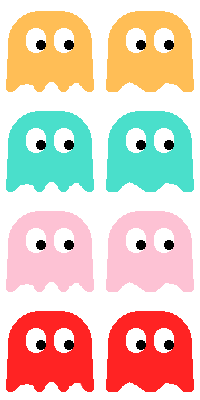
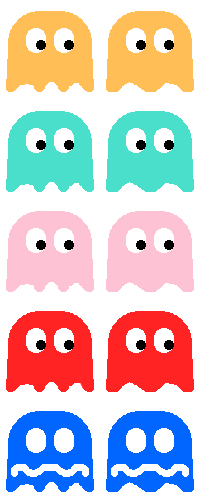
Added new grid. Scaled everything down to fix some pixel issues. Ghosts can now die.

diff --git a/root/src/headers/Globals.cpp b/root/src/headers/Globals.cpp
@@ -4,7 +4,55 @@
 
 #include "Globals.h"
 
+/*
+left 1
+right 3
+top 2
+bottom 4
+
+*/
+
 const int Globals::GRID_TYPE[] = {
+	0,	0,	0,	0,	0,	0,	0,	0,	0,	0,	0,	0,	6,	2,	2,	2,	2,	2,	2,	2,	2,	2,	2,	2,	7,	0,	0,	0,	0,	0,	0,	0,	0,	0,	0,	0,	0,
+	0,	0,	0,	0,	0,	0,	0,	0,	0,	0,	0,	0,	1,	-1,	-1,	-1,	-1,	-1,	-1,	-1,	-1,	-1,	-1,	-1,	3,	0,	0,	0,	0,	0,	0,	0,	0,	0,	0,	0,	0,
+	0,	0,	0,	0,	0,	0,	0,	0,	0,	0,	0,	0,	1,	-1,	10,	4,	4,	4,	4,	4,	4,	4,	11,	-1,	3,	0,	0,	0,	0,	0,	0,	0,	0,	0,	0,	0,	0,
+	0,	0,	0,	0,	0,	0,	6,	2,	2,	2,	2,	2,	12,	-1,	9,	2,	2,	7,	0,	6,	2,	2,	12,	-1,	9,	2,	2,	2,	2,	2,	7,	0,	0,	0,	0,	0,	0,
+	0,	0,	0,	0,	0,	0,	1,	-1,	-1,	-1,	-1,	-1,	-1,	-1,	-1,	-1,	-1,	3,	0,	1,	-1,	-1,	-1,	-1,	-1,	-1,	-1,	-1,	-1,	-1,	3,	0,	0,	0,	0,	0,	0,
+	0,	0,	0,	0,	0,	0,	1,	-1,	10,	4,	11,	-1,	10,	4,	4,	11,	-1,	3,	0,	1,	-1,	10,	4,	4,	11,	-1,	10,	4,	11,	-1,	3,	0,	0,	0,	0,	0,	0,
+	0,	0,	0,	0,	0,	0,	1,	-1,	9,	2,	12,	-1,	9,	2,	2,	12,	-1,	9,	2,	12,	-1,	9,	2,	2,	12,	-1,	9,	2,	12,	-1,	3,	0,	0,	0,	0,	0,	0,
+	0,	0,	0,	0,	0,	0,	1,	-1,	-1,	-1,	-1,	-1,	-1,	-1,	-1,	-1,	-1,	-1,	-1,	-1,	-1,	-1,	-1,	-1,	-1,	-1,	-1,	-1,	-1,	-1,	3,	0,	0,	0,	0,	0,	0,
+	0,	0,	0,	0,	0,	0,	1,	-1,	10,	4,	11,	-1,	10,	11,	-1,	10,	4,	11,	-2,	10,	4,	11,	-1,	10,	11,	-1,	10,	4,	11,	-1,	3,	0,	0,	0,	0,	0,	0,
+	0,	0,	0,	0,	0,	0,	1,	-1,	3,	0,	1,	-1,	3,	1,	-1,	9,	2,	13,	4,	14,	2,	12,	-1,	3,	1,	-1,	3,	0,	1,	-1,	3,	0,	0,	0,	0,	0,	0,
+	0,	0,	0,	0,	0,	0,	1,	-1,	9,	2,	12,	-1,	3,	1,	-1,	-1,	-1,	3,	0,	1,	-1,	-1,	-1,	3,	1,	-1,	9,	2,	12,	-1,	3,	0,	0,	0,	0,	0,	0,
+	0,	0,	0,	0,	0,	0,	1,	-1,	-1,	-1,	-1,	-1,	3,	5,	4,	11,	-1,	3,	0,	1,	-1,	10,	4,	8,	1,	-1,	-1,	-1,	-1,	-1,	3,	0,	0,	0,	0,	0,	0,
+	0,	0,	0,	0,	0,	0,	5,	4,	4,	4,	11,	-1,	3,	6,	2,	12,	-1,	9,	2,	12,	-1,	9,	2,	7,	1,	-1,	10,	4,	4,	4,	8,	0,	0,	0,	0,	0,	0,
+	0,	0,	0,	0,	0,	0,	0,	0,	0,	0,	1,	-1,	3,	1,	0,	0,	0,	0,	0,	0,	0,	0,	0,	3,	1,	-1,	3,	0,	0,	0,	0,	0,	0,	0,	0,	0,	0,
+	0,	0,	0,	0,	0,	0,	0,	0,	0,	0,	1,	-1,	3,	1,	0,	10,	4,	11,	0,	10,	4,	11,	0,	3,	1,	-1,	3,	0,	0,	0,	0,	0,	0,	0,	0,	0,	0,
+	0,	0,	0,	0,	0,	0,	0,	0,	0,	6,	12,	-1,	9,	12,	0,	3,	6,	12,	0,	9,	7,	1,	0,	9,	12,	-1,	9,	7,	0,	0,	0,	0,	0,	0,	0,	0,	0,
+	0,	0,	0,	0,	0,	0,	0,	0,	0,	1,	-2,	-1,	-1,	-1,	0,	3,	1,	0,	0,	0,	3,	1,	0,	-1,	-1,	-1,	-2,	3,	0,	0,	0,	0,	0,	0,	0,	0,	0,
+	0,	0,	0,	0,	0,	0,	0,	0,	0,	5,	11,	-1,	10,	11,	0,	3,	5,	4,	4,	4,	8,	1,	0,	10,	11,	-1,	10,	8,	0,	0,	0,	0,	0,	0,	0,	0,	0,
+	0,	0,	0,	0,	0,	0,	0,	6,	2,	2,	12,	-1,	3,	1,	0,	9,	2,	2,	2,	2,	2,	12,	0,	3,	1,	-1,	9,	2,	2,	7,	0,	0,	0,	0,	0,	0,	0,
+	0,	0,	0,	0,	0,	0,	0,	1,	-1,	-1,	-1,	-1,	3,	1,	0,	0,	0,	0,	0,	0,	0,	0,	0,	3,	1,	-1,	-1,	-1,	-1,	3,	0,	0,	0,	0,	0,	0,	0,
+	0,	0,	0,	0,	0,	0,	0,	1,	-1,	10,	11,	-1,	3,	1,	-1,	10,	4,	4,	4,	4,	4,	11,	-1,	3,	1,	-1,	10,	11,	-1,	3,	0,	0,	0,	0,	0,	0,	0,
+	0,	0,	0,	0,	0,	0,	6,	12,	-1,	9,	12,	-1,	3,	1,	-1,	9,	2,	7,	0,	6,	2,	12,	-1,	3,	1,	-1,	9,	12,	-1,	9,	7,	0,	0,	0,	0,	0,	0,
+	0,	0,	0,	0,	0,	0,	1,	-1,	-1,	-1,	-1,	-1,	3,	1,	-1,	-1,	-1,	3,	0,	1,	-1,	-1,	-1,	3,	1,	-1,	-1,	-1,	-1,	-1,	3,	0,	0,	0,	0,	0,	0,
+	0,	0,	0,	0,	0,	0,	1,	-1,	10,	4,	11,	-1,	3,	5,	4,	11,	-1,	3,	0,	1,	-1,	10,	4,	8,	1,	-1,	10,	4,	11,	-1,	3,	0,	0,	0,	0,	0,	0,
+	0,	0,	0,	0,	0,	0,	1,	-1,	9,	2,	12,	-1,	9,	2,	2,	12,	-1,	9,	2,	12,	-1,	9,	2,	2,	12,	-1,	9,	2,	12,	-1,	3,	0,	0,	0,	0,	0,	0,
+	0,	0,	0,	0,	0,	0,	1,	-1,	-1,	-1,	-1,	-1,	-1,	-1,	-1,	-1,	-1,	-1,	-1,	-1,	-1,	-1,	-1,	-1,	-1,	-1,	-1,	-1,	-1,	-1,	3,	0,	0,	0,	0,	0,	0,
+	0,	0,	0,	0,	0,	0,	1,	-1,	10,	4,	11,	-1,	10,	4,	4,	11,	-1,	10,	4,	11,	-1,	10,	4,	4,	11,	-1,	10,	4,	11,	-1,	3,	0,	0,	0,	0,	0,	0,
+	0,	0,	0,	0,	0,	0,	1,	-1,	9,	7,	1,	-1,	9,	2,	2,	12,	-1,	9,	2,	12,	-1,	9,	2,	2,	12,	-1,	3,	6,	12,	-1,	3,	0,	0,	0,	0,	0,	0,
+	0,	0,	0,	0,	0,	0,	1,	-1,	-1,	3,	1,	-1,	-1,	-1,	-1,	-1,	-1,	-1,	-1,	-1,	-1,	-1,	-1,	-1,	-1,	-1,	3,	1,	-1,	-1,	3,	0,	0,	0,	0,	0,	0,
+	0,	0,	0,	0,	0,	0,	5,	11,	-1,	3,	1,	-1,	10,	11,	-1,	10,	4,	11,	-2,	10,	4,	11,	-1,	10,	11,	-1,	3,	1,	-1,	10,	8,	0,	0,	0,	0,	0,	0,
+	0,	0,	0,	0,	0,	0,	6,	12,	-1,	9,	12,	-1,	3,	1,	-1,	9,	2,	13,	4,	14,	2,	12,	-1,	3,	1,	-1,	9,	12,	-1,	9,	7,	0,	0,	0,	0,	0,	0,
+	0,	0,	0,	0,	0,	0,	1,	-1,	-1,	-1,	-1,	-1,	3,	1,	-1,	-1,	-1,	3,	0,	1,	-1,	-1,	-1,	3,	1,	-1,	-1,	-1,	-1,	-1,	3,	0,	0,	0,	0,	0,	0,
+	0,	0,	0,	0,	0,	0,	1,	-1,	10,	4,	4,	4,	8,	5,	4,	11,	-1,	3,	0,	1,	-1,	10,	4,	8,	5,	4,	4,	4,	11,	-1,	3,	0,	0,	0,	0,	0,	0,
+	0,	0,	0,	0,	0,	0,	1,	-1,	9,	2,	2,	2,	2,	2,	2,	12,	-1,	9,	2,	12,	-1,	9,	2,	2,	2,	2,	2,	2,	12,	-1,	3,	0,	0,	0,	0,	0,	0,
+	0,	0,	0,	0,	0,	0,	1,	-1,	-1,	-1,	-1,	-1,	-1,	-1,	-1,	-1,	-1,	-1,	-1,	-1,	-1,	-1,	-1,	-1,	-1,	-1,	-1,	-1,	-1,	-1,	3,	0,	0,	0,	0,	0,	0,
+	0,	0,	0,	0,	0,	0,	5,	4,	4,	4,	4,	4,	4,	4,	4,	4,	4,	4,	4,	4,	4,	4,	4,	4,	4,	4,	4,	4,	4,	4,	8,	0,	0,	0,	0,	0,	0,
+	0,	0,	0,	0,	0,	0,	0,	0,	0,	0,	0,	0,	0,	0,	0,	0,	0,	0,	0,	0,	0,	0,	0,	0,	0,	0,	0,	0,	0,	0,	0,	0,	0,	0,	0,	0,	0
+};
+
+/*const int Globals::GRID_TYPE[] = {
 	6,	2,	2,	2,	2,	2,	2,	2,	2,	2,	2,	2,	7,	6,	2,	7,	6,	2,	2,	2,	2,	2,	2,	2,	2,	2,	2,	2,	7,
 	1,	-1,	-1,	-1,	-1,	-1,	-1,	-1,	-1,	-1,	-1,	-1,	3,	1,	0,	3,	1,	-1,	-1,	-1,	-1,	-1,	-1,	-1,	-1,	-1,	-1,	-1,	3,
 	1,	-1,	10,	4,	4,	11,	-1,	10,	4,	4,	11,	-1,	3,	1,	0,	3,	1,	-1,	10,	4,	4,	11,	-1,	10,	4,	4,	11,	-1,	3,
@@ -34,7 +82,7 @@ const int Globals::GRID_TYPE[] = {
 	1,	-1,	9,	2,	2,	12,	-1,	9,	2,	2,	12,	-1,	3,	1,	0,	3,	1,	-1,	9,	2,	2,	12,	-1,	9,	2,	2,	12,	-1,	3,
 	1,	-1,	-1,	-1,	-1,	-1,	-1,	-1,	-1,	-1,	-1,	-1,	3,	1,	0,	3,	1,	-1,	-1,	-1,	-1,	-1,	-1,	-1,	-1,	-1,	-1,	-1,	3,
 	5,	4,	4,	4,	4,	4,	4,	4,	4,	4,	4,	4,	8,	5,	4,	8,	5,	4,	4,	4,	4,	4,	4,	4,	4,	4,	4,	4,	8
-};
+};*/
 
-const int Globals::ENEMY_START_X[] = { 14, 1, 14, 27 };
-const int Globals::ENEMY_START_Y[] = { 1, 14, 27, 14 };
+const int Globals::ENEMY_START_X[] = { 18, 17, 18, 19 };
+const int Globals::ENEMY_START_Y[] = { 15, 16, 16, 16 };

diff --git a/root/src/main.cpp b/root/src/main.cpp
@@ -178,7 +178,7 @@ void InitialiseSprites() {
 	SDL_Texture* fontS = SDL_CreateTextureFromSurface(renderer, fontSelectedSurface);
 
 	// Main Menu
-	int mainMenuScale = 15;
+	int mainMenuScale = 10;
 	FontSprite* title = new FontSprite("PuckMan!", font, fontS, 0, 0, mainMenuScale * 2, false, false);
 	FontSprite* onePlayer = new FontSprite("One Player", font, fontS, 0, mainMenuScale * Globals::FONT_HEIGHT * 2, mainMenuScale, true, true, onePlayerCallback);
 	FontSprite* twoPlayer = new FontSprite("Two Player", font, fontS, 0, mainMenuScale * Globals::FONT_HEIGHT * 3, mainMenuScale, true, true, twoPlayerCallback);
@@ -230,9 +230,11 @@ void InitialiseSprites() {
 		Tile t = gameState.tileGrid[i];
 		Sprite* s = new Sprite(
 			tileTexture,
-			NewRect((int)(t.GetTextureX()), (int)(t.GetTextureY()), Globals::TILE_SIZE, Globals::TILE_SIZE),
-			new Vector2((int)(t.GetPositionX()), (int)(t.GetPositionY()))
+			NewRect((int)(t.GetTextureX()), (int)(t.GetTextureY()), 100, 100),
+			new Vector2((int)(t.GetPositionX()), (int)(t.GetPositionY())),
+			new Vector2(Globals::TILE_SIZE, Globals::TILE_SIZE)
 		);
+		s->CalculateRect();
 		gameState.tileGrid[i].SetSprite(*s);
 		delete s;
 	}
@@ -502,23 +504,31 @@ void Update(double &deltaTime) {
 
 		for (int i = 0; i < 4; i++) {
 			if (gameState.playerSprite.tile == gameState.enemySprites[i].tile) {
-				if (gameState.playerSprite.deathTimer >= gameState.playerSprite.deathTime) {
-					gameState.playerSprite.lives--;
-					gameState.playerSprite.deathTimer = 0;
+				if (gameState.playerSprite.hasPill) {
+					gameState.enemySprites[i].Kill(gameState);
+				} else {
+					if (gameState.playerSprite.deathTimer >= gameState.playerSprite.deathTime) {
+						gameState.playerSprite.lives--;
+						gameState.playerSprite.deathTimer = 0;
 
-					if (gameState.playerSprite.lives <= 0) {
-						gameState.playerSprite.alive = false;
+						if (gameState.playerSprite.lives <= 0) {
+							gameState.playerSprite.alive = false;
+						}
 					}
 				}
 			}
 			if (gameState.playerTwoSprite.tile == gameState.enemySprites[i].tile) {
 				if (gameState.GetState() == TwoPlayer) {
-					if (gameState.playerTwoSprite.deathTimer >= gameState.playerTwoSprite.deathTime) {
-						gameState.playerTwoSprite.lives--;
-						gameState.playerTwoSprite.deathTimer = 0;
+					if (gameState.playerTwoSprite.hasPill) {
+						gameState.enemySprites[i].Kill(gameState);
+					} else {
+						if (gameState.playerTwoSprite.deathTimer >= gameState.playerTwoSprite.deathTime) {
+							gameState.playerTwoSprite.lives--;
+							gameState.playerTwoSprite.deathTimer = 0;
 
-						if (gameState.playerTwoSprite.lives <= 0) {
-							gameState.playerTwoSprite.alive = false;
+							if (gameState.playerTwoSprite.lives <= 0) {
+								gameState.playerTwoSprite.alive = false;
+							}
 						}
 					}
 				}
@@ -551,7 +561,7 @@ void Update(double &deltaTime) {
 
 		double leftJoyStickValue = 1;
 		double rightJoyStickValue = 1;
-		if (joystick) {
+		if (gameState.useController) {
 			leftJoyStickValue = max(abs(gameState.leftJoystickX), abs(gameState.leftJoystickY)) / 32767.0;
 			rightJoyStickValue = max(abs(gameState.rightJoystickX), abs(gameState.rightJoystickY)) / 32767.0;
 		}
@@ -608,20 +618,21 @@ void Render() {
 			gameState.tileGrid[i].GetSprite().Render(renderer);
 
 			if (gameState.tileGrid[i].CheckBiscuit()) {
-				int posX = (int)(gameState.tileGrid[i].GetPositionX() + 40);
-				int posY = (int)(gameState.tileGrid[i].GetPositionY() + 40);
+				int size = Globals::TILE_SIZE / 5;
+				int posX = (int)(gameState.tileGrid[i].GetPositionX() + (2 * size));
+				int posY = (int)(gameState.tileGrid[i].GetPositionY() + (2 * size));
 
-				SDL_Rect biscuitRect = { posX, posY, 20, 20 };
+				SDL_Rect biscuitRect = { posX, posY, size, size };
 				SDL_RenderCopy(renderer, gameState.biscuitTexture, NULL, &biscuitRect);
 			}
 			if (gameState.tileGrid[i].CheckPill()) {
-				SDL_Rect pillRect = { (int)(gameState.tileGrid[i].GetPositionX()), (int)(gameState.tileGrid[i].GetPositionY()), 100, 100 };
+				SDL_Rect pillRect = { (int)(gameState.tileGrid[i].GetPositionX()), (int)(gameState.tileGrid[i].GetPositionY()), Globals::TILE_SIZE, Globals::TILE_SIZE };
 				SDL_RenderCopyEx(renderer, gameState.pillTexture, NULL, &pillRect, gameState.pillAngle, NULL, SDL_FLIP_NONE);
 			}
 		}
 
 		for (int i = 0; i < 4; i++) {
-			gameState.enemySprites[i].Render(renderer);
+			gameState.enemySprites[i].Render(renderer, (gameState.playerSprite.hasPill || gameState.playerTwoSprite.hasPill));
 		}
 
 		gameState.playerSprite.Render(renderer);

diff --git a/root/src/headers/Enemy.cpp b/root/src/headers/Enemy.cpp
@@ -9,8 +9,13 @@
 #include "Tile.h"
 #include "Enemy.h"
 
+void Enemy::Kill(GameState& gameState) {
+    this->tile = Globals::ENEMY_START_X[0] + (Globals::ENEMY_START_Y[0] * Globals::TILE_ROWS);
+    this->SetPositionFromTile(gameState);
+}
+
 void Enemy::PathFind(GameState& gameState, double deltaTime) {
-    if (timer >= 0.15) {
+    /* if (timer >= 0.15) {
         if (moveDirection == Left) {
             if (currentToggle >= toggle) {
                 if (CanMove(gameState, Up, deltaTime)) { currentToggle++; timer = 0; moveDirection = Up; }
@@ -63,14 +68,25 @@ void Enemy::PathFind(GameState& gameState, double deltaTime) {
     }
 
     DoMove(gameState, deltaTime * Globals::PLAYER_SPEED, deltaTime);
-    timer += deltaTime;
+    timer += deltaTime; */
 }
 
-void Enemy::Render(SDL_Renderer* renderer) {
+void Enemy::Render(SDL_Renderer* renderer, bool hasPill) {
     SDL_Rect drawRect = destRect;
     drawRect.x += (int)offsetX;
     drawRect.y += (int)offsetY;
 
-    if (doAnimate) SDL_RenderCopy(renderer,texture, &animStates.at(currentAnim), &drawRect);
-    else SDL_RenderCopy(renderer, texture, (srcRect.w == -1) ? NULL : &srcRect, &drawRect);
+    if (hasPill) {
+        if (doAnimate)  {
+            SDL_Rect src;
+            src = animStates.at(currentAnim);
+            src.y = 400;
+
+            SDL_RenderCopy(renderer,texture, &src, &drawRect);
+        }
+        else SDL_RenderCopy(renderer, texture, (srcRect.w == -1) ? NULL : &srcRect, &drawRect);
+    } else {
+        if (doAnimate) SDL_RenderCopy(renderer,texture, &animStates.at(currentAnim), &drawRect);
+        else SDL_RenderCopy(renderer, texture, (srcRect.w == -1) ? NULL : &srcRect, &drawRect);
+    }
 }

diff --git a/root/src/headers/Globals.h b/root/src/headers/Globals.h
@@ -9,18 +9,18 @@ enum MoveDirection { Up, Down, Left, Right };
 
 class Globals {
 public:
-    const static int TILE_ROWS = 29;
+    const static int TILE_ROWS = 37;
     const static int TILE_COUNT = TILE_ROWS * TILE_ROWS;
-    const static int TILE_SIZE = 100;
-    const static int TOTAL_SCORE = 15550;
+    const static int TILE_SIZE = 50;
+    const static int TOTAL_SCORE = 14250;
     const static int SCORE_REGION = 300;
     const static int ACTUAL_SCREEN_WIDTH = 800;
     const static int ACTUAL_SCREEN_HEIGHT = 600;
     const static int SCREEN_WIDTH = TILE_SIZE * TILE_ROWS;
     const static int SCREEN_HEIGHT = SCREEN_WIDTH + SCORE_REGION;
-    const static int PLAYER_START_X = 14;
-    const static int PLAYER_START_Y = 16;
-	const static int PLAYER_SPEED = 350;
+    const static int PLAYER_START_X = 19;
+    const static int PLAYER_START_Y = 25;
+	const static int PLAYER_SPEED = 200;
     const static int PLAYER_LIVES = 3;
 	const static int BISCUIT_SCORE = 50;
 	const static int FONT_WIDTH = 9;

diff --git a/root/src/headers/Tile.cpp b/root/src/headers/Tile.cpp
@@ -45,8 +45,8 @@ void Tile::SetTexturePosition(int index) {
         this->hasPill = true;
         this->texturePosition = new Vector2(0, 0);
     } else {
-		int x = (Globals::GRID_TYPE[index] % 5) * Globals::TILE_SIZE;
-		int y = (Globals::GRID_TYPE[index] / 5) * Globals::TILE_SIZE;
+		int x = (Globals::GRID_TYPE[index] % 5) * 100;
+		int y = (Globals::GRID_TYPE[index] / 5) * 100;
         this->texturePosition = new Vector2(x, y);
     }
 }

diff --git a/root/src/headers/Enemy.h b/root/src/headers/Enemy.h
@@ -15,8 +15,9 @@ public:
 
     double timer = 1;
 
+    void Kill(GameState&);
     void PathFind(GameState&, double);
-    void Render(SDL_Renderer* renderer); // overwrite Render
+    void Render(SDL_Renderer* renderer, bool); // overwrite Render
     using Player::Player;
 private:
     int toggle = rand() % 10;

diff --git a/root/src/headers/GameState.h b/root/src/headers/GameState.h
@@ -28,6 +28,9 @@ public:
 	SDL_Texture* heartTexture;
 	double pillAngle = 0.0;
 
+	// Options
+	bool useController = false;
+
 	// Mouse
 	bool mouseClicked = false;
 	int mouseX = 0;
